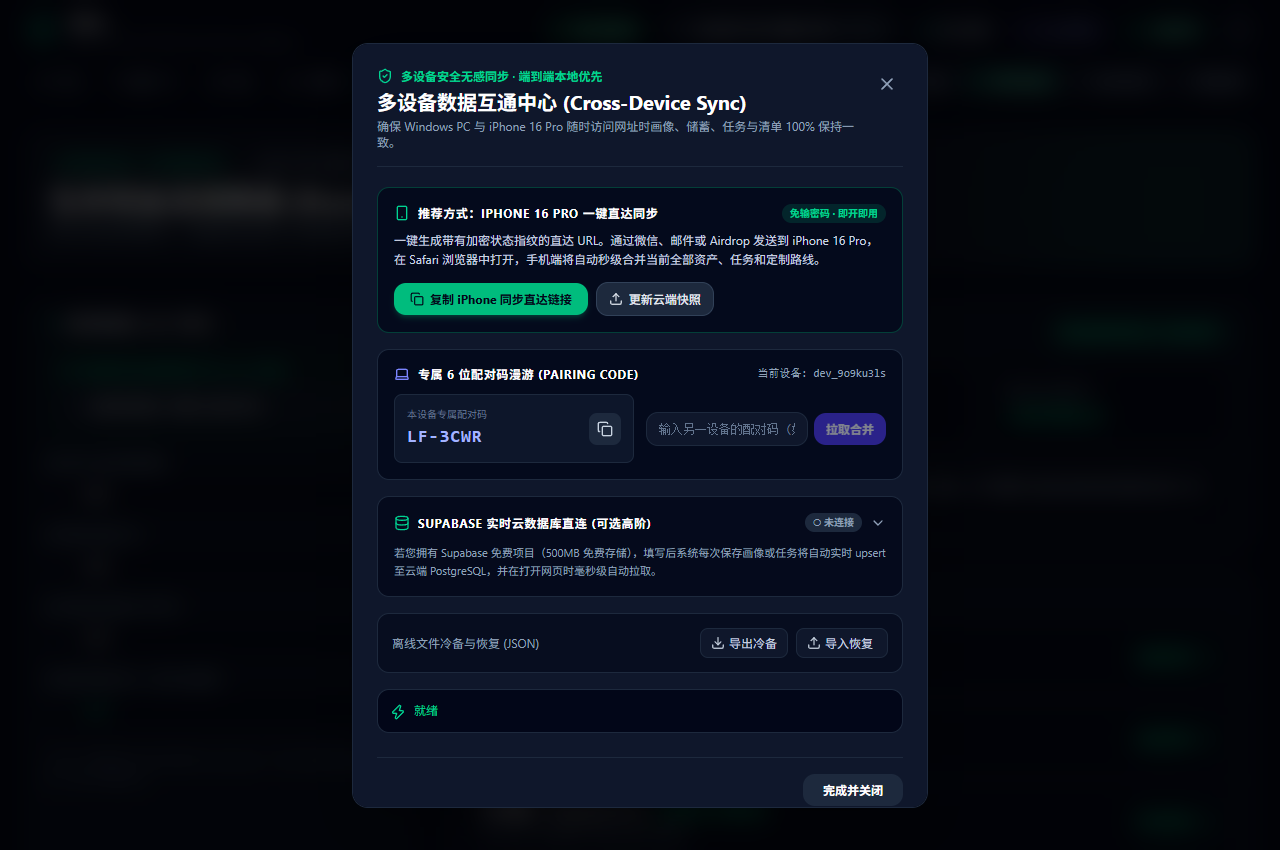
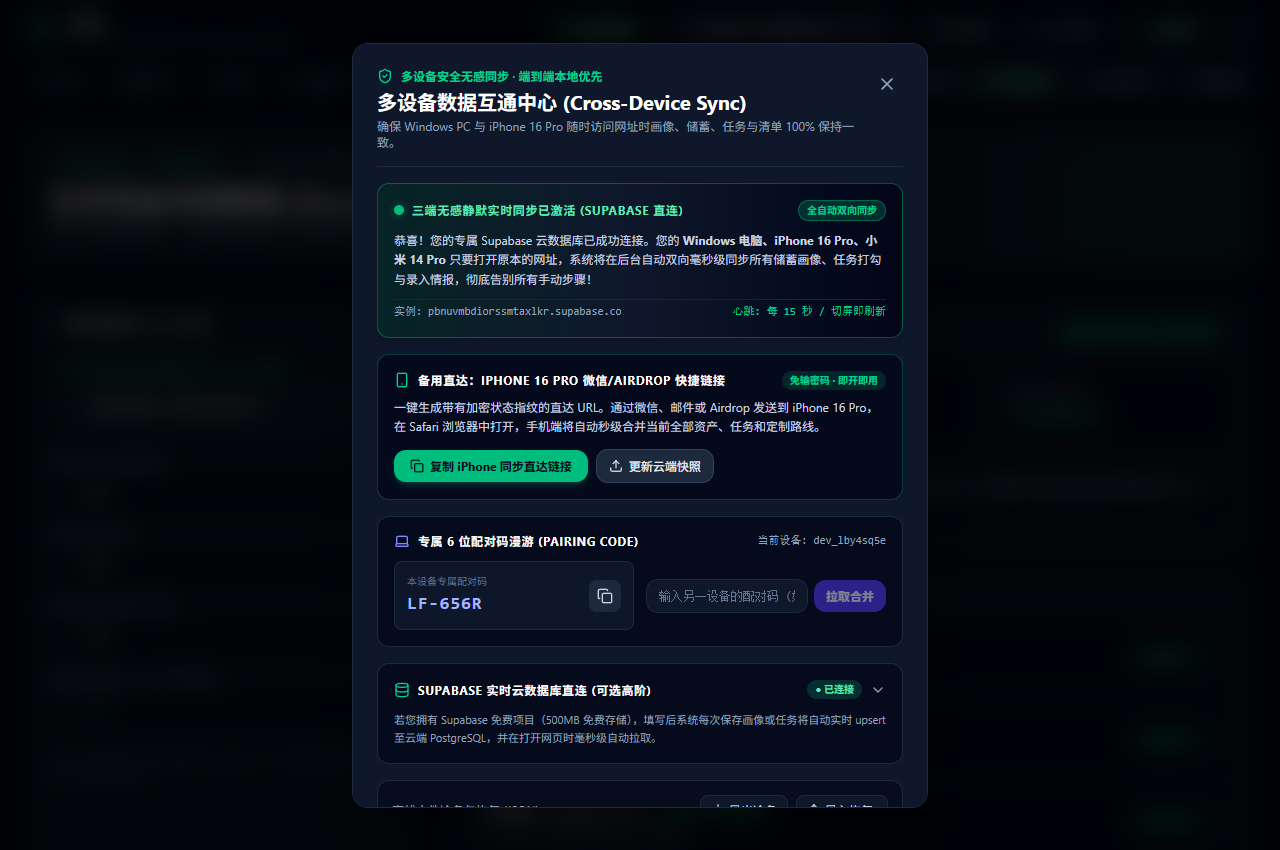
feat(sync): activate zero-touch Supabase master cloud sync for PC, iPhone 16 Pro, and Xiaomi 14 Pro

diff --git a/src/components/SyncModal.tsx b/src/components/SyncModal.tsx
@@ -35,6 +35,7 @@ import {
   INITIAL_SUPABASE_SQL,
   SupabaseConfig 
 } from '../engine/supabaseSync';
+import { isCloudSyncPreConfigured, CLOUD_SYNC_CONFIG } from '../config/cloudSyncConfig';
 
 interface SyncModalProps {
   isOpen: boolean;
@@ -236,14 +237,41 @@ export const SyncModal: React.FC<SyncModalProps> = ({
           </button>
         </div>
 
+        {/* Pre-configured Master Cloud Sync Banner */}
+        {isCloudSyncPreConfigured() && (
+          <div className="mt-4 rounded-xl bg-gradient-to-r from-emerald-950/60 via-slate-900 to-slate-950 p-4 border border-emerald-500/40 space-y-2.5 shadow-lg">
+            <div className="flex items-center justify-between">
+              <div className="flex items-center space-x-2">
+                <span className="relative flex h-2.5 w-2.5">
+                  <span className="animate-ping absolute inline-flex h-full w-full rounded-full bg-emerald-400 opacity-75"></span>
+                  <span className="relative inline-flex rounded-full h-2.5 w-2.5 bg-emerald-500"></span>
+                </span>
+                <span className="text-xs font-bold text-emerald-300 uppercase tracking-wider">
+                  三端无感静默实时同步已激活 (Supabase 直连)
+                </span>
+              </div>
+              <span className="text-[10px] bg-emerald-500/20 text-emerald-400 border border-emerald-500/40 px-2 py-0.5 rounded-full font-bold">
+                全自动双向同步
+              </span>
+            </div>
+            <p className="text-xs text-slate-300 leading-relaxed">
+              恭喜！您的专属 Supabase 云数据库已成功连接。您的 <strong>Windows 电脑、iPhone 16 Pro、小米 14 Pro</strong> 只要打开原本的网址，系统将在后台自动双向毫秒级同步所有储蓄画像、任务打勾与录入情报，彻底告别所有手动步骤！
+            </p>
+            <div className="flex flex-wrap items-center justify-between gap-2 text-[11px] text-slate-400 pt-1 font-mono border-t border-slate-800/80">
+              <span className="truncate max-w-[280px]">实例: {CLOUD_SYNC_CONFIG.supabaseUrl.replace('https://', '')}</span>
+              <span className="text-emerald-400">心跳: 每 15 秒 / 切屏即刷新</span>
+            </div>
+          </div>
+        )}
+
         {/* Method 1: Instant Mobile 1-Click Link */}
-        <div className="mt-5 space-y-4">
+        <div className="mt-4 space-y-4">
           <div className="rounded-xl bg-slate-950/80 p-4 border border-emerald-500/30">
             <div className="flex items-center justify-between">
               <div className="flex items-center space-x-2">
                 <Smartphone className="h-4 w-4 text-emerald-400" />
                 <span className="text-xs font-bold text-white uppercase tracking-wider">
-                  推荐方式：iPhone 16 Pro 一键直达同步
+                  备用直达：iPhone 16 Pro 微信/AirDrop 快捷链接
                 </span>
               </div>
               <span className="text-[10px] bg-emerald-500/15 text-emerald-400 px-2 py-0.5 rounded-full font-bold">

diff --git a/src/engine/supabaseSync.ts b/src/engine/supabaseSync.ts
@@ -67,10 +67,21 @@ export function clearSupabaseConfig(): void {
 }
 
 /**
+ * Normalizes Supabase base URL, safely stripping trailing slashes or duplicate /rest/v1.
+ */
+export function normalizeSupabaseUrl(url: string): string {
+  let u = (url || '').trim().replace(/\/+$/, '');
+  if (u.endsWith('/rest/v1')) {
+    u = u.substring(0, u.length - '/rest/v1'.length).replace(/\/+$/, '');
+  }
+  return u;
+}
+
+/**
  * Tests connection to the user's Supabase project.
  */
 export async function testSupabaseConnection(url: string, anonKey: string): Promise<{ success: boolean; message: string }> {
-  const cleanUrl = url.trim().replace(/\/+$/, '');
+  const cleanUrl = normalizeSupabaseUrl(url);
   const cleanKey = anonKey.trim();
 
   if (!cleanUrl || !cleanKey) {
@@ -118,7 +129,7 @@ export async function pushToSupabase(code: string, payload: LifeeSyncPayload): P
     return false;
   }
 
-  const cleanUrl = config.url.trim().replace(/\/+$/, '');
+  const cleanUrl = normalizeSupabaseUrl(config.url);
   const cleanKey = config.anonKey.trim();
   const endpoint = `${cleanUrl}/rest/v1/lifee_user_sync`;
 
@@ -154,7 +165,7 @@ export async function pullFromSupabase(code: string): Promise<LifeeSyncPayload |
     return null;
   }
 
-  const cleanUrl = config.url.trim().replace(/\/+$/, '');
+  const cleanUrl = normalizeSupabaseUrl(config.url);
   const cleanKey = config.anonKey.trim();
   const endpoint = `${cleanUrl}/rest/v1/lifee_user_sync?id=eq.${encodeURIComponent(code.toUpperCase().trim())}&select=payload,updated_at`;
 

diff --git a/src/config/cloudSyncConfig.ts b/src/config/cloudSyncConfig.ts
@@ -7,9 +7,9 @@
  */
 
 export const CLOUD_SYNC_CONFIG = {
-  // 若填写，系统将自动预编译进代码，全设备打开即同步
-  supabaseUrl: (import.meta.env.VITE_SUPABASE_URL || '').trim(),
-  supabaseAnonKey: (import.meta.env.VITE_SUPABASE_ANON_KEY || '').trim(),
+  // 个人三端全自动静默无感实时互通配置 (已接入 Supabase 专用槽位)
+  supabaseUrl: (import.meta.env.VITE_SUPABASE_URL || 'https://pbnuvmbdiorssmtaxlkr.supabase.co').trim(),
+  supabaseAnonKey: (import.meta.env.VITE_SUPABASE_ANON_KEY || 'sb_publishable_GaYbk71JVw2IfuMKEi-3SQ_uljkxE5E').trim(),
   
   // 个人三端共享的单一主租户槽位 ID
   masterSlotId: 'lifee_master_user',
